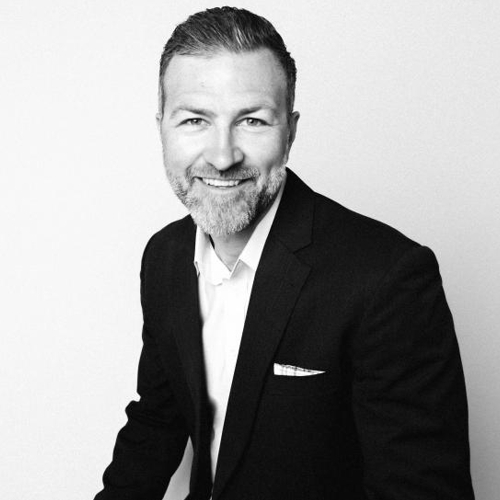
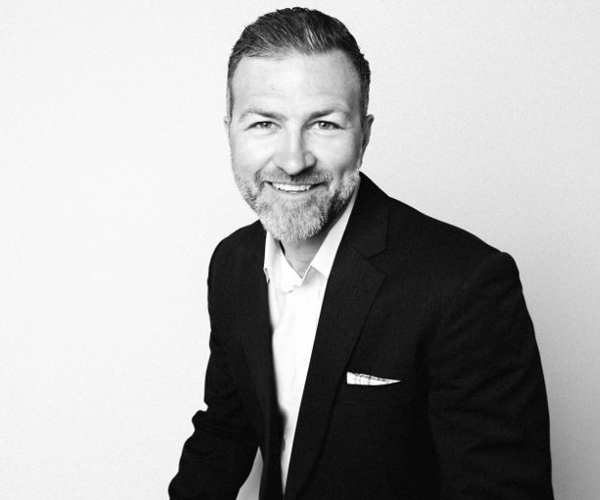
adjust flex alignment, image resizing

diff --git a/index.html b/index.html
@@ -34,7 +34,17 @@
       }
     </style>
     <!-- ---------------------------------------------- -->
-    
+
+    <!--
+      TODO: -Replace SVG code with asset file (because it's very messy in here)
+            -Add contact information to navbar
+            -Create following template pages:
+                -Listings
+                -MLS Search
+                -Neighborhoods overview
+                -About/Marketing/Resources/Contact
+    -->
+
   </head>
   <body>
     
@@ -118,7 +128,7 @@
 <main>
   <!-- Page Hero -->
   <div class="position-relative overflow-hidden p-3 p-md-5 m-md-3 text-center text-light hero">
-    <div class="col-md-5 p-lg-5 mx-auto hero-text">
+    <div class="col-md-5 p-lg-5 mx-auto hero-text d-flex flex-column align-items-center">
       <svg class="tagline_mobile" width="706px" height="156px" viewBox="0 0 706 156" version="1.1" xmlns="http://www.w3.org/2000/svg" xmlns:xlink="http://www.w3.org/1999/xlink">
         <title>Group 3</title>
         <defs>
@@ -224,7 +234,7 @@
           <a class="btn btn-outline-dark" href="#">LEARN MORE</a>
         </div>
         <div class="col-auto">
-          <img src="/assets/profile_headshot.jpg" alt="Lance Brown Portrait" width="auto" height="500">
+          <img src="/assets/profile_headshot-rs.jpg" alt="Lance Brown Portrait" width="600" height="500">
         </div>
       </div>
 
